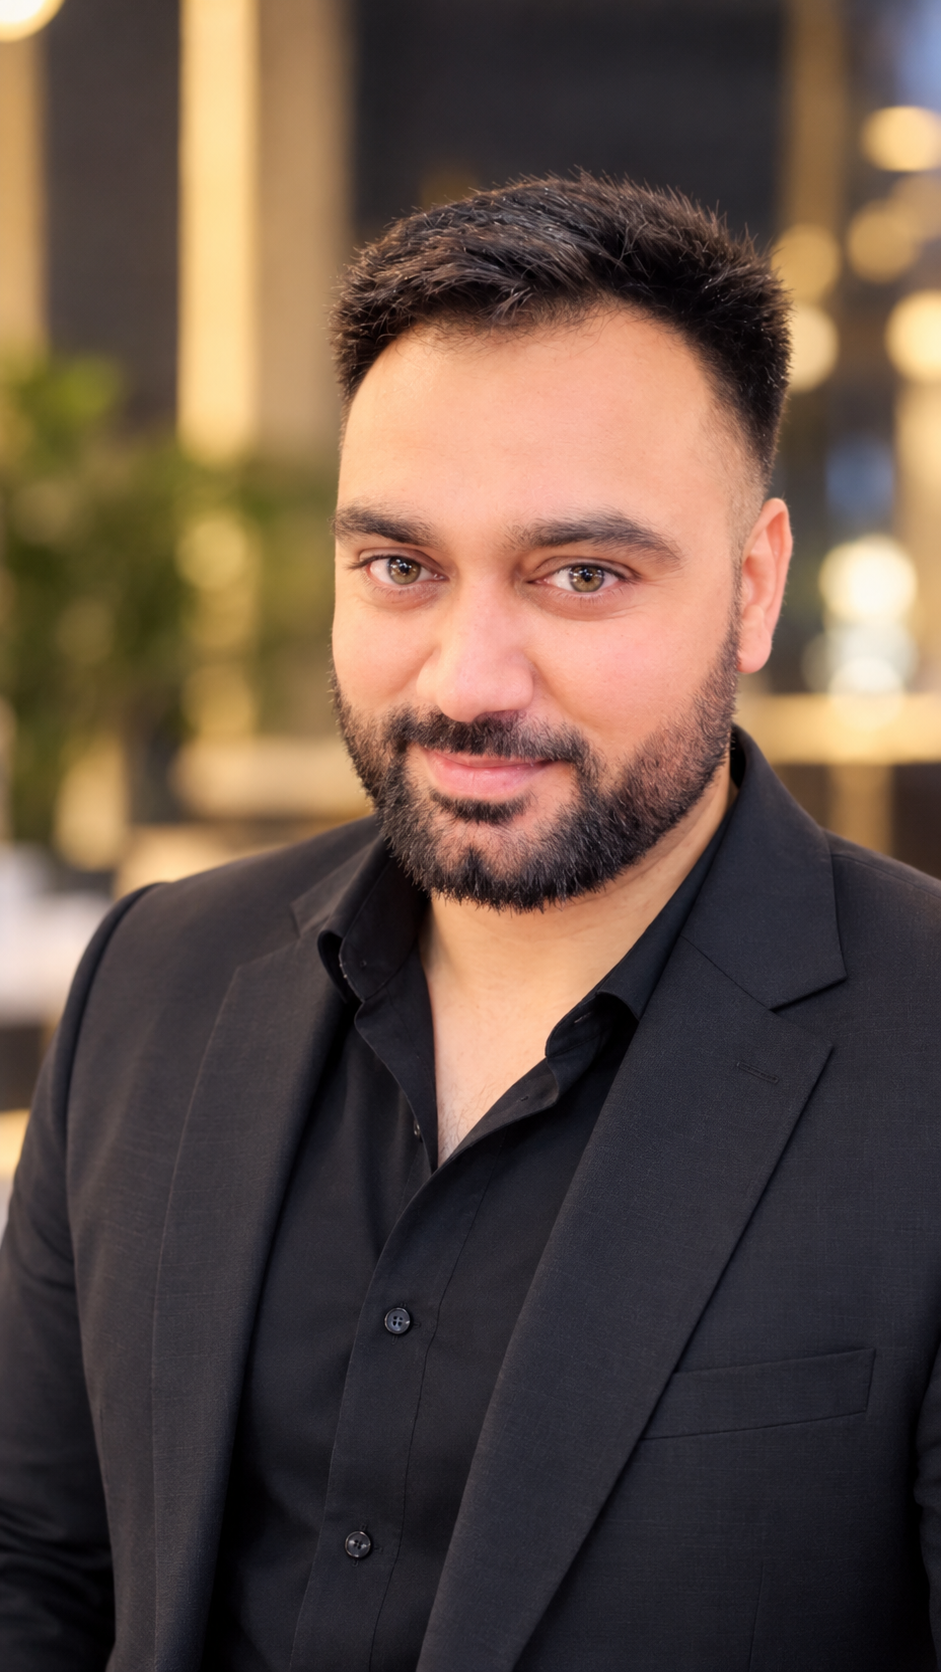
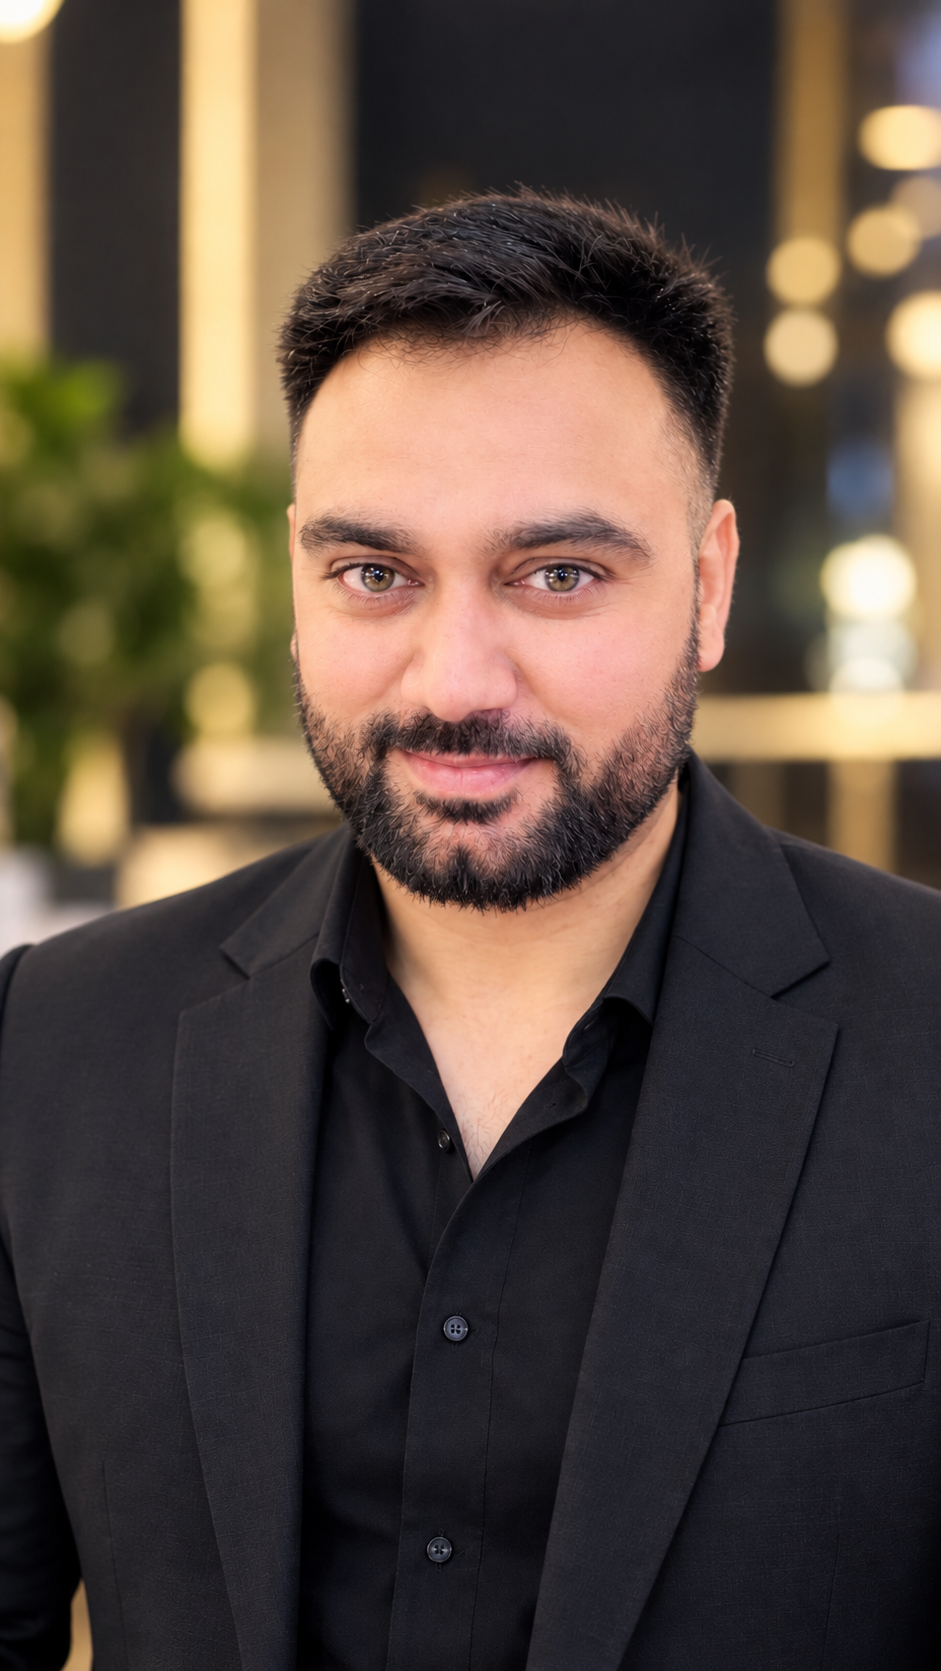
Added smooth scroll animations to all sections in About page

diff --git a/src/routes/about.tsx b/src/routes/about.tsx
@@ -14,33 +14,48 @@ export const Route = createFileRoute("/about")({
     component: AboutPage
 });
 
+// Animation variants for reusability
+const fadeUp = {
+    hidden: { opacity: 0, y: 30 },
+    visible: { opacity: 1, y: 0, transition: { duration: 0.6, ease: "easeOut" } }
+};
+
+const staggerContainer = {
+    hidden: { opacity: 0 },
+    visible: {
+        opacity: 1,
+        transition: { staggerChildren: 0.15 }
+    }
+};
+
 function AboutPage() {
     return (
         <>
+            {/* 1. Hero Section */}
             <section className="bg-gradient-to-r from-[#0A1325] via-[#0F254B] to-[#3482B9] py-10 lg:py-12 overflow-hidden">
                 <div className="container-wide">
-                    <motion.span
-                        initial={{ opacity: 0, y: 10 }}
+                    <motion.span 
+                        initial={{ opacity: 0, y: -10 }}
                         animate={{ opacity: 1, y: 0 }}
-                        transition={{ duration: 0.5 }}
+                        transition={{ duration: 0.5, delay: 0.1 }}
                         className="eyebrow block text-[#93C5FD] font-bold tracking-[0.15em] mb-1.5 text-xs uppercase"
                     >
                         About The Company
                     </motion.span>
-
-                    <motion.h1
+                    
+                    <motion.h1 
                         initial={{ opacity: 0, x: -40 }}
                         animate={{ opacity: 1, x: 0 }}
-                        transition={{ duration: 0.6, ease: "easeOut", delay: 0.1 }}
+                        transition={{ duration: 0.7, ease: "easeOut", delay: 0.2 }}
                         className="font-heading text-2xl font-bold sm:text-3xl lg:text-4xl text-white"
                     >
                         Making Finance Simple, Fast, and Transparent.
                     </motion.h1>
-
-                    <motion.p
-                        initial={{ opacity: 0, x: -25 }}
+                    
+                    <motion.p 
+                        initial={{ opacity: 0, x: -30 }}
                         animate={{ opacity: 1, x: 0 }}
-                        transition={{ duration: 0.6, ease: "easeOut", delay: 0.25 }}
+                        transition={{ duration: 0.7, ease: "easeOut", delay: 0.4 }}
                         className="mt-2.5 max-w-2xl text-sm md:text-base text-blue-100/90"
                     >
                         FININSTA is Delhi NCR’s most trusted financial consultancy, dedicated to bridging the gap between borrowers and top-tier banks with instant facilitation.
@@ -48,21 +63,24 @@ function AboutPage() {
                 </div>
             </section>
 
-            <section className="py-12 md:py-14 bg-background">
+            {/* 2. Founder Section */}
+            <section className="py-12 md:py-14 bg-background overflow-hidden">
                 <div className="container-wide">
                     <div className="flex flex-col lg:flex-row items-center gap-10 lg:gap-14">
 
+                        {/* Image - Slides in from left */}
                         <motion.div
-                            initial={{ opacity: 0, x: -40 }}
-                            whileInView={{ opacity: 1, x: 0 }}
-                            viewport={{ once: true }}
+                            initial={{ opacity: 0, x: -50, scale: 0.95 }}
+                            whileInView={{ opacity: 1, x: 0, scale: 1 }}
+                            viewport={{ once: true, margin: "-100px" }}
+                            transition={{ duration: 0.7, ease: "easeOut" }}
                             className="w-full lg:w-2/5 relative"
                         >
-                            <div className="aspect-[4/5] rounded-2xl overflow-hidden shadow-xl relative bg-gradient-to-tr from-[#0F254B] to-[#3482B9] p-1">
+                            <div className="aspect-[4/5] rounded-2xl overflow-hidden shadow-2xl relative bg-gradient-to-tr from-[#0F254B] to-[#3482B9] p-1 group">
                                 <img
-                                    src="/founder.jpg"
+                                    src="/founder.png"
                                     alt="Gaurav Kumar Chandna - Founder FININSTA"
-                                    className="w-full h-full object-cover rounded-[14px] bg-white"
+                                    className="w-full h-full object-cover object-top rounded-[14px] bg-white transition-transform duration-700 group-hover:scale-105"
                                     onError={(e) => {
                                         e.currentTarget.style.display = 'none';
                                         e.currentTarget.parentElement!.innerHTML = `
@@ -71,7 +89,7 @@ function AboutPage() {
                                                     <svg xmlns="http://www.w3.org/2000/svg" width="36" height="36" viewBox="0 0 24 24" fill="none" stroke="#3482B9" stroke-width="2" stroke-linecap="round" stroke-linejoin="round"><path d="M19 21v-2a4 4 0 0 0-4-4H9a4 4 0 0 0-4 4v2"/><circle cx="12" cy="7" r="4"/></svg>
                                                 </div>
                                                 <h3 class="text-xl font-bold text-[#0F254B]">Gaurav Kumar Chandna</h3>
-                                                <p class="text-xs text-[#3482B9] mt-2 font-bold uppercase">(Add founder.jpg in public folder)</p>
+                                                <p class="text-xs text-[#3482B9] mt-2 font-bold uppercase">(Add founder.png in public folder)</p>
                                             </div>
                                         `;
                                     }}
@@ -79,20 +97,22 @@ function AboutPage() {
                             </div>
                         </motion.div>
 
+                        {/* Founder Content - Staggered fade up */}
                         <motion.div
-                            initial={{ opacity: 0, x: 40 }}
-                            whileInView={{ opacity: 1, x: 0 }}
-                            viewport={{ once: true }}
+                            variants={staggerContainer}
+                            initial="hidden"
+                            whileInView="visible"
+                            viewport={{ once: true, margin: "-100px" }}
                             className="w-full lg:w-3/5"
                         >
-                            <h2 className="text-3xl md:text-4xl font-bold font-heading text-[#0F254B] mb-1.5">
+                            <motion.h2 variants={fadeUp} className="text-3xl md:text-4xl font-bold font-heading text-[#0F254B] mb-1.5">
                                 Gaurav Kumar Chandna
-                            </h2>
-                            <p className="text-lg text-[#3482B9] font-semibold mb-4">
+                            </motion.h2>
+                            <motion.p variants={fadeUp} className="text-lg text-[#3482B9] font-semibold mb-4">
                                 Founder & Director
-                            </p>
+                            </motion.p>
 
-                            <div className="prose text-muted-foreground mb-6 text-sm md:text-base leading-relaxed space-y-3">
+                            <motion.div variants={fadeUp} className="prose text-muted-foreground mb-6 text-sm md:text-base leading-relaxed space-y-3">
                                 <p>
                                     With over <strong>15+ years of extensive experience</strong> in the banking and finance sector, Gaurav Kumar Chandna established FININSTA with one primary vision: <strong>"Instant facilitation for finances."</strong>
                                 </p>
@@ -102,50 +122,64 @@ function AboutPage() {
                                 <p>
                                     While FININSTA handles all financial portfolios, Gaurav holds a master-level core expertise in <strong>Home Loans</strong>, ensuring that families get the keys to their dream homes with the lowest interest rates and zero hassle.
                                 </p>
-                            </div>
+                            </motion.div>
 
-                            <div className="grid sm:grid-cols-2 gap-3 mb-6">
-                                <div className="bg-[#F8FBFE] p-3.5 rounded-xl border border-[#3482B9]/20 flex items-center gap-3">
+                            <motion.div variants={fadeUp} className="grid sm:grid-cols-2 gap-3 mb-6">
+                                <motion.div whileHover={{ scale: 1.02 }} className="bg-[#F8FBFE] p-3.5 rounded-xl border border-[#3482B9]/20 flex items-center gap-3">
                                     <div className="p-2.5 bg-[#3482B9]/10 rounded-lg text-[#3482B9]"><Briefcase size={20} /></div>
                                     <div>
                                         <h4 className="font-bold text-[#0F254B] text-lg">15+ Years</h4>
                                         <p className="text-[11px] text-muted-foreground uppercase font-bold tracking-wider">Industry Experience</p>
                                     </div>
-                                </div>
-                                <div className="bg-[#F8FBFE] p-3.5 rounded-xl border border-[#3482B9]/20 flex items-center gap-3">
+                                </motion.div>
+                                <motion.div whileHover={{ scale: 1.02 }} className="bg-[#F8FBFE] p-3.5 rounded-xl border border-[#3482B9]/20 flex items-center gap-3">
                                     <div className="p-2.5 bg-[#3482B9]/10 rounded-lg text-[#3482B9]"><Home size={20} /></div>
                                     <div>
                                         <h4 className="font-bold text-[#0F254B] text-lg">Home Loans</h4>
                                         <p className="text-[11px] text-muted-foreground uppercase font-bold tracking-wider">Core Expertise</p>
                                     </div>
-                                </div>
-                            </div>
+                                </motion.div>
+                            </motion.div>
 
-                            <a
+                            <motion.a
+                                variants={fadeUp}
+                                whileHover={{ scale: 1.05 }}
+                                whileTap={{ scale: 0.95 }}
                                 href="https://www.linkedin.com/in/fininsta-financial-services-34723a445?utm_source=share_via&utm_content=profile&utm_medium=member_android"
                                 target="_blank"
                                 rel="noopener noreferrer"
                                 className="inline-flex items-center gap-2 bg-[#0A66C2] hover:bg-[#004182] text-white px-5 py-2.5 rounded-xl font-medium transition-colors shadow-md hover:shadow-lg text-sm"
                             >
                                 <Linkedin size={18} /> Connect on LinkedIn
-                            </a>
+                            </motion.a>
 
                         </motion.div>
                     </div>
                 </div>
             </section>
 
-            <section className="py-12 bg-[#0F254B] text-white">
+            {/* 3. Milestones Section */}
+            <section className="py-12 bg-[#0F254B] text-white overflow-hidden">
                 <div className="container-wide">
-                    <div className="text-center mb-10">
+                    <motion.div 
+                        initial={{ opacity: 0, y: 30 }}
+                        whileInView={{ opacity: 1, y: 0 }}
+                        viewport={{ once: true }}
+                        transition={{ duration: 0.6 }}
+                        className="text-center mb-10"
+                    >
                         <h2 className="text-2xl md:text-3xl font-bold font-heading mb-2">A Legacy of Trust & Growth</h2>
                         <p className="text-gray-400 text-sm max-w-xl mx-auto">Our numbers speak for the dedication and hard work we put into every single file that comes to our desk.</p>
-                    </div>
+                    </motion.div>
 
                     <div className="grid md:grid-cols-2 gap-6 max-w-3xl mx-auto">
                         <motion.div
-                            initial={{ opacity: 0, y: 20 }} whileInView={{ opacity: 1, y: 0 }} viewport={{ once: true }}
-                            className="bg-white/5 border border-white/10 p-6 rounded-2xl text-center backdrop-blur-sm"
+                            initial={{ opacity: 0, scale: 0.8 }} 
+                            whileInView={{ opacity: 1, scale: 1 }} 
+                            viewport={{ once: true }}
+                            transition={{ duration: 0.5, delay: 0.2 }}
+                            whileHover={{ y: -5, boxShadow: "0 20px 25px -5px rgba(0, 0, 0, 0.2)" }}
+                            className="bg-white/5 border border-white/10 p-6 rounded-2xl text-center backdrop-blur-sm transition-all"
                         >
                             <Users className="size-10 text-[#3482B9] mx-auto mb-3" />
                             <h3 className="text-4xl font-numbers font-bold text-white mb-1">10,000+</h3>
@@ -153,8 +187,12 @@ function AboutPage() {
                         </motion.div>
 
                         <motion.div
-                            initial={{ opacity: 0, y: 20 }} whileInView={{ opacity: 1, y: 0 }} viewport={{ once: true }} transition={{ delay: 0.1 }}
-                            className="bg-white/5 border border-white/10 p-6 rounded-2xl text-center backdrop-blur-sm"
+                            initial={{ opacity: 0, scale: 0.8 }} 
+                            whileInView={{ opacity: 1, scale: 1 }} 
+                            viewport={{ once: true }} 
+                            transition={{ duration: 0.5, delay: 0.4 }}
+                            whileHover={{ y: -5, boxShadow: "0 20px 25px -5px rgba(0, 0, 0, 0.2)" }}
+                            className="bg-white/5 border border-white/10 p-6 rounded-2xl text-center backdrop-blur-sm transition-all"
                         >
                             <Building className="size-10 text-[#3482B9] mx-auto mb-3" />
                             <h3 className="text-4xl font-numbers font-bold text-white mb-1">₹1,000+ Cr</h3>
@@ -164,17 +202,49 @@ function AboutPage() {
                 </div>
             </section>
 
+            {/* 4. Vision Section */}
             <section className="py-12 md:py-14 bg-background">
                 <div className="container-wide max-w-2xl text-center">
-                    <Target className="size-12 text-[#3482B9] mx-auto mb-4" />
-                    <h2 className="text-2xl md:text-3xl font-bold font-heading text-[#0F254B] mb-3">Our Core Vision</h2>
-                    <p className="text-base text-muted-foreground leading-relaxed italic">
+                    <motion.div
+                        initial={{ opacity: 0, scale: 0, rotate: -180 }}
+                        whileInView={{ opacity: 1, scale: 1, rotate: 0 }}
+                        viewport={{ once: true }}
+                        transition={{ type: "spring", stiffness: 100, damping: 15, delay: 0.1 }}
+                    >
+                        <Target className="size-12 text-[#3482B9] mx-auto mb-4" />
+                    </motion.div>
+                    
+                    <motion.h2 
+                        initial={{ opacity: 0, y: 20 }}
+                        whileInView={{ opacity: 1, y: 0 }}
+                        viewport={{ once: true }}
+                        transition={{ duration: 0.5, delay: 0.3 }}
+                        className="text-2xl md:text-3xl font-bold font-heading text-[#0F254B] mb-3"
+                    >
+                        Our Core Vision
+                    </motion.h2>
+
+                    <motion.p 
+                        initial={{ opacity: 0, y: 20 }}
+                        whileInView={{ opacity: 1, y: 0 }}
+                        viewport={{ once: true }}
+                        transition={{ duration: 0.5, delay: 0.4 }}
+                        className="text-base text-muted-foreground leading-relaxed italic"
+                    >
                         "To provide absolute instant facilitation for finances. We believe that borrowing money shouldn't be a hurdle, it should be a stepping stone to your success."
-                    </p>
+                    </motion.p>
                 </div>
             </section>
 
-            <CTA />
+            {/* 5. CTA Section */}
+            <motion.div
+                initial={{ opacity: 0, y: 50 }}
+                whileInView={{ opacity: 1, y: 0 }}
+                viewport={{ once: true }}
+                transition={{ duration: 0.6 }}
+            >
+                <CTA />
+            </motion.div>
         </>
     );
 }
